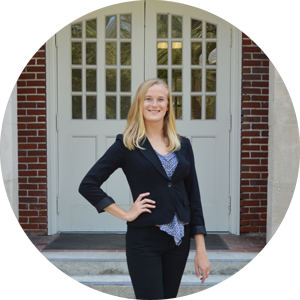
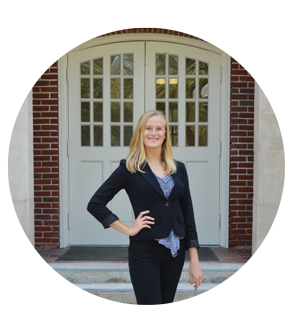
pic enlargement y text highlight color

diff --git a/index.html b/index.html
@@ -59,7 +59,7 @@
 			<img class = "headerimg" src = "assets/img/marie.png">
 			<h2>Designer, Programmer, Artist.</h2>
 			<div class="row">
-			<br><img src="assets/img/marie-circle-prof.png"><br><br><br>
+			<br><br><br><img src="assets/img/marie-circle-prof.png" class="grow" style = "width:225px;height:auto" / ><br><br><br><br><br>
 
 				<div class="col-lg-6 col-lg-offset-3">
 				</div>

diff --git a/assets/css/main.css b/assets/css/main.css
@@ -18,6 +18,10 @@ body {
     -webkit-overflow-scrolling: touch;
 }
 
+::selection {
+  background: #90EAE0; /* WebKit/Blink Browsers */
+}
+
 /* Titles */
 h1, h2, h3, h4, h5, h6 {
     font-family: "Raleway";
